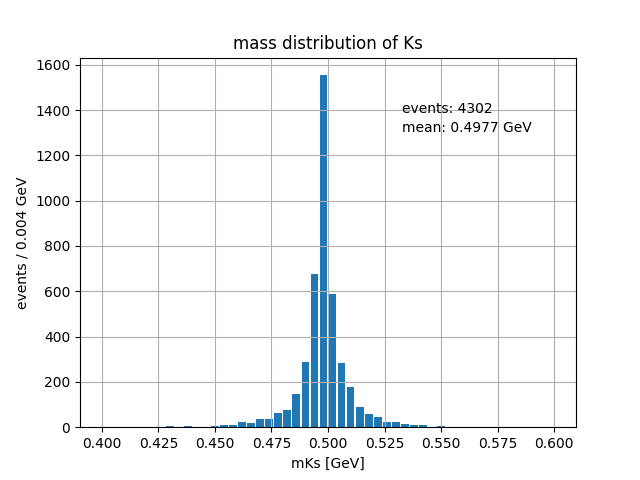
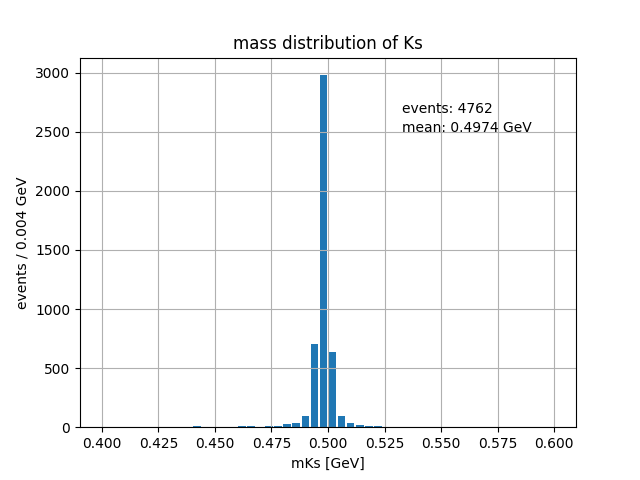
modified vertion ---- 2021/12/18

diff --git a/VTX_LSF/VTXF/VertexFit.py b/VTX_LSF/VTXF/VertexFit.py
@@ -41,7 +41,6 @@ class vtxFit(TrackPool.trackPool):
         self.__m_ltkParA = np.array([])
         self.__m_ltkPar = np.array([])
         self.__m_ltkCovParA = np.array([])
-        self.__m_ltkCovPar = np.array([])
 
         ''' the matrix of vertex parameters defined here '''
         self.__m_xParA = np.zeros(6).reshape(-1, 1)
@@ -80,7 +79,6 @@ class vtxFit(TrackPool.trackPool):
         self.__m_ltkParA = np.zeros(ntrk*6).reshape(-1, 1)
         self.__m_ltkPar = np.zeros(ntrk*6).reshape(-1, 1)
         self.__m_ltkCovParA = np.zeros((ntrk*6, ntrk*6))
-        self.__m_ltkCovPar = np.zeros((ntrk*6, ntrk*6))
         for itk in range(ntrk):
             ETWT = np.dot(
                 np.dot(vtxFit.m_TRA, super().getTrackA(itk).getEw()), vtxFit.m_TRA.T)
@@ -118,9 +116,10 @@ class vtxFit(TrackPool.trackPool):
                 delchisq = chisq[it]-chisq[it-1]
                 if math.fabs(delchisq) < 1e-3:
                     break
-        if self.__chisq >= self.__chisqcut:
+        if self.__chisq >= 100:
             return False
         else:
+            self.__vertexCovMatrix()
             return True
 
     def fitVertex(self):
@@ -236,21 +235,53 @@ class vtxFit(TrackPool.trackPool):
             for m in range(2):
                 hc[m] = self.__m_H[i*2+m]
 
+            # print('track', i, 'check')
+            # print('alpha0', alpha0.T[0])
+            # print('ETWT', ETWT)
+            # print('dq', dq.T)
+            # print('vd', vd)
+            # print('hc', hc)
+            # print('kq', kq)
+            # print('dq0q', dq0q)
             alpha = alpha0-np.dot(np.dot(ETWT, dq.T),
                                   (np.dot(vd, hc)-np.dot(kq.T, dq0q)))
             mass = super().getTrack(i).getMass()
-            super().getTrack(i).setW(self.Convert67(mass, alpha))
+            # print('-----------------new----------------------',i)
+            newalpha = copy.deepcopy(self.Convert67(mass, alpha))
+            super().getTrack(i).setW(newalpha)
+            # print(newalpha.T)
             # print(alpha.T)
             # print(super().getTrack(i).getW().T)
 
         '''get chisquare value'''
-        part1 = np.dot(np.dot(self.__m_H.T, self.__m_VD), self.__m_H)[0, 0]
-        #print("part1", part1)
-        part2 = np.dot(np.dot((self.__m_xPar-self.__m_xParA).T,
-                       self.__m_xCovPar_I), (self.__m_xPar-self.__m_xParA))[0, 0]
-        #print("part2", part2)
+        part1 = np.dot(np.dot(self.__m_H.T, self.__m_VD), self.__m_H)
+        evg = np.dot(np.dot(self.__m_E.T, self.__m_VD), self.__m_H)
+        part2 = np.dot(np.dot(evg.T, self.__m_xCovPar), evg)
         self.__chisq = part1-part2
         # print(self.__chisq)
+
+        # '''get chisquare value'''
+        # part1 = np.dot(np.dot(self.__m_H.T, self.__m_VD), self.__m_H)[0, 0]
+        # print("part1", part1)
+        # part2 = np.dot(np.dot((self.__m_xPar-self.__m_xParA).T,
+        #                self.__m_xCovPar_I), (self.__m_xPar-self.__m_xParA))[0, 0]
+        # print("part2", part2)
+        # print('---------------')
+        # print(super().getTrack(0).getW().T[0])
+        # print(super().getTrack(1).getW().T[0])
+        # print('')
+        # self.__chisq = part1-part2
+        # print('')
+        # print('----------new iteration--------')
+        # print('')
+        # print('x = ', self.__m_xPar.T[0])
+
+        # print('track 0 parameters:', super().getTrack(0).getW().T[0])
+
+        # print('track 1 parameters:', super().getTrack(1).getW().T[0])
+
+        # print('chisq = ', self.__chisq[0])
+        # print('')
 
     def updateConstraints(self):
         ''' calculate d、E、D、VD '''
@@ -263,9 +294,8 @@ class vtxFit(TrackPool.trackPool):
             x = np.zeros(3).reshape(-1, 1)  # poca of track
             vx = np.zeros(3).reshape(-1, 1)  # vertex point
 
-            for idx in range(6):
-                alpha[idx] = self.__m_ltkPar[idx+i*6]
-
+            alpha = self.Convert76(super().getTrack(i).getW())
+            # print('aaalpha', alpha)
             mass = super().getTrackA(i).getMass()
             e = math.sqrt(
                 mass*mass+alpha[0]*alpha[0]+alpha[1]*alpha[1]+alpha[2]*alpha[2])
@@ -336,7 +366,8 @@ class vtxFit(TrackPool.trackPool):
             for m in range(2):
                 for n in range(2):
                     self.__m_VD[i*2+m, i*2+n] = vd[m, n]
-
+            # print('track', i)
+            # print(vd)
             '''Hc'''
             hc = np.zeros(2).reshape(-1, 1)
             hc = np.dot(Dc, (self.Convert76(super().getTrackA(
@@ -344,6 +375,60 @@ class vtxFit(TrackPool.trackPool):
             #print('x-x', (self.getVparA().getVertex()-self.getVpar().getVertex()).T)
             for n in range(2):
                 self.__m_H[i*2+n] = hc[n]
+
+    def __vertexCovMatrix(self):
+        ntrk = super().getNTrack()
+        '''calculate new Vx'''
+        self.__m_xCovPar_I = copy.deepcopy(self.__m_xCovParA_I)
+        for i in range(ntrk):
+            vd = np.zeros((2, 2))
+            ed = np.zeros((2, 3))
+            for m in range(2):
+                for n in range(2):
+                    vd[m, n] = self.__m_VD[i*2+m, i*2+n]
+            for m in range(2):
+                for n in range(3):
+                    ed[m, n] = self.__m_E[i*2+m, n]
+            self.__m_xCovPar_I += np.dot(np.dot(ed.T, vd), ed)
+        self.__m_xCovPar = np.linalg.inv(self.__m_xCovPar_I)
+
+    def swim(self):
+        ntrk = super().getNTrack()
+        for i in range(ntrk):
+            a = 0.002925
+            q = super().getCharge(i)
+            x0 = super().getTrack(i).getX()[0, 0]
+            y0 = super().getTrack(i).getX()[1, 0]
+            px0 = super().getTrack(i).getP()[0, 0]
+            py0 = super().getTrack(i).getP()[1, 0]
+            pz0 = super().getTrack(i).getP()[2, 0]
+            e = super().getTrack(i).getP()[3, 0]
+            x=self.__m_xPar[0,0]
+            y=self.__m_xPar[1,0]
+            z=self.__m_xPar[2,0]
+
+            new_W = np.zeros(7).reshape(-1, 1)
+            new_W[0,0]=px0-a*q*(y-y0)
+            new_W[1,0]=py0+a*q*(x-x0)
+            new_W[2,0]=pz0
+            new_W[3,0]=e
+            new_W[4,0]=x
+            new_W[5,0]=y
+            new_W[6,0]=z
+
+            super().getTrack(i).setW(new_W)     
+
+        # print('')
+        # print('----------swim to vertex--------')
+        # print('')
+        # print('x = ', self.__m_xPar.T[0])
+
+        # print('track 0 parameters:', super().getTrack(0).getW().T[0])
+
+        # print('track 1 parameters:', super().getTrack(1).getW().T[0])
+
+        # print('chisq = ', self.__chisq[0])
+        # print('')       
 
     def Convert76(self, p: np.array):
         m = np.zeros(6).reshape(-1, 1)

diff --git a/VTX_LSF/VTXF/Apply.py b/VTX_LSF/VTXF/Apply.py
@@ -36,11 +36,11 @@ if __name__ == '__main__':
     mtrackErrFile = '/mnt/f/ALG_Learning/VTX_LSF/TrackSample/TrackEM.dat'
 
     list_of_mass = []
-    Nevent = 5000.0
+    Nevent = 5000
     flag = 1
     print('------------------ begin vertex fit -------------------')
     for i in range(int(Nevent)):
-        if (i/Nevent*100+1) % 5 == 0:
+        if ((i+1)/Nevent*100) % 5 == 0:
             print('------------------ fit vertex',
                   5*flag, '% -------------------')
             flag += 1
@@ -56,7 +56,7 @@ if __name__ == '__main__':
         ''' define the initial vertex, usually the orgin '''
         vx = np.array([0.0, 0.0, 0.0]).reshape(-1, 1)
         Evx = np.zeros((3, 3))
-        bx = by = bz = 1e6
+        bx = by = bz = 1e12
         Evx[0, 0] = bx*bx
         Evx[1, 1] = by*by
         Evx[2, 2] = bz*bz
@@ -77,6 +77,7 @@ if __name__ == '__main__':
         Ks0 = np.zeros(4).reshape(-1, 1)
         fitWell = vtxfit.Fit()
         if fitWell:
+            vtxfit.swim()
             p4pip = copy.deepcopy(vtxfit.getP4(0))
             p4pim = copy.deepcopy(vtxfit.getP4(1))
             Ks0 = p4pip+p4pim
@@ -89,7 +90,7 @@ if __name__ == '__main__':
             list_of_mass.append(mKs)
 
     ''' plt '''
-    plt.hist(list_of_mass, bins=50, range=(0.4, 0.6), rwidth=0.85)
+    plt.hist(list_of_mass, bins=48, range=(0.487, 0.511), rwidth=0.85)
     aaxis = plt.axis()
     mKs_mean = np.mean(list_of_mass)
     plt.text(0.65*(aaxis[1]-aaxis[0])+aaxis[0], 0.8 *
@@ -97,7 +98,7 @@ if __name__ == '__main__':
     plt.text(0.65*(aaxis[1]-aaxis[0])+aaxis[0], 0.85 *
              aaxis[3], 'events: {}'.format(len(list_of_mass)))
     plt.xlabel('mKs [GeV]')
-    plt.ylabel('events / 0.004 GeV')
+    plt.ylabel('events / 0.5 MeV')
     plt.title('mass distribution of Ks')
     plt.grid()
     plt.savefig('mKs_Grid.png')

diff --git a/HIST_LSF/LSF/LSF.py b/HIST_LSF/LSF/LSF.py
@@ -94,10 +94,11 @@ if __name__ == '__main__':
     Nevent = 1656709.0
     '''Nsig,Nbkg,meanGauss,sigmaGauss,a,b,c,d,e,f,g (11parameters)'''
     alpha = (
-        np.array([[0.2*Nevent, 0.8*Nevent, 1.97, 0.001, 1]])).reshape(-1, 1)
+        np.array([[0.2*Nevent, 0.8*Nevent, 1.97, 0.01, 1]])).reshape(-1, 1)
 
     '''Vy'''
-    Vy = np.diag(SigmaY)
+    vy = np.diag(SigmaY)
+    Vy = np.dot(vy, vy)
     Vy_I = np.linalg.inv(Vy)
 
     '''chi2'''
@@ -130,7 +131,7 @@ if __name__ == '__main__':
         '''chi2'''
         chi2 = np.dot(np.dot((dy-np.dot(A, eta)).T, Vy_I),
                       (dy-np.dot(A, eta)))
-        if(np.abs(chi2-chi2_A) < 0.001):
+        if(np.abs(chi2-chi2_A) < 0.00001):
             print('\n----------------------------------------------------')
             print("D: ", D, "chi2: ", float(chi2))
             print('-----')
@@ -154,7 +155,7 @@ if __name__ == '__main__':
             alpha.T[0][2], '.4e'), format(alpha.T[0][3], '.4e'), format(alpha.T[0][4], '.4e'))
 
         chi2_A = chi2+0.
-        if(chi2 < 10000):
+        if(chi2 < 100):
             break
 
     NewF = PDF(dataX, alpha)

diff --git a/VTX_LSF/VTXF/Track.py b/VTX_LSF/VTXF/Track.py
@@ -118,7 +118,7 @@ class track():
         return copy.deepcopy(self.__charge)
 
     def getW(self):
-        return copy.deepcopy(self.__w)
+        return self.__w
 
     def getEw(self):
         return copy.deepcopy(self.__wErr)
@@ -145,6 +145,7 @@ class track():
 
     def setW(self, w: np.array):
         self.__w = copy.deepcopy(w)
+        self.__makeXP()
 
     def setEw(self, Ew: np.array):
         self.__wErr = copy.deepcopy(Ew)

diff --git a/VTX_LSF/VTXF/TrackPool.py b/VTX_LSF/VTXF/TrackPool.py
@@ -73,3 +73,10 @@ if __name__ == '__main__':
 
     print(a.getNTrack())
     print(a.getCharge(1))
+    print(a.getTrack(0).getW().T)
+    ll = np.zeros(7).reshape(-1,1)
+    # print(ll)
+    a.getTrack(0).setW(ll)
+    print(a.getTrack(0).getW())
+
+
